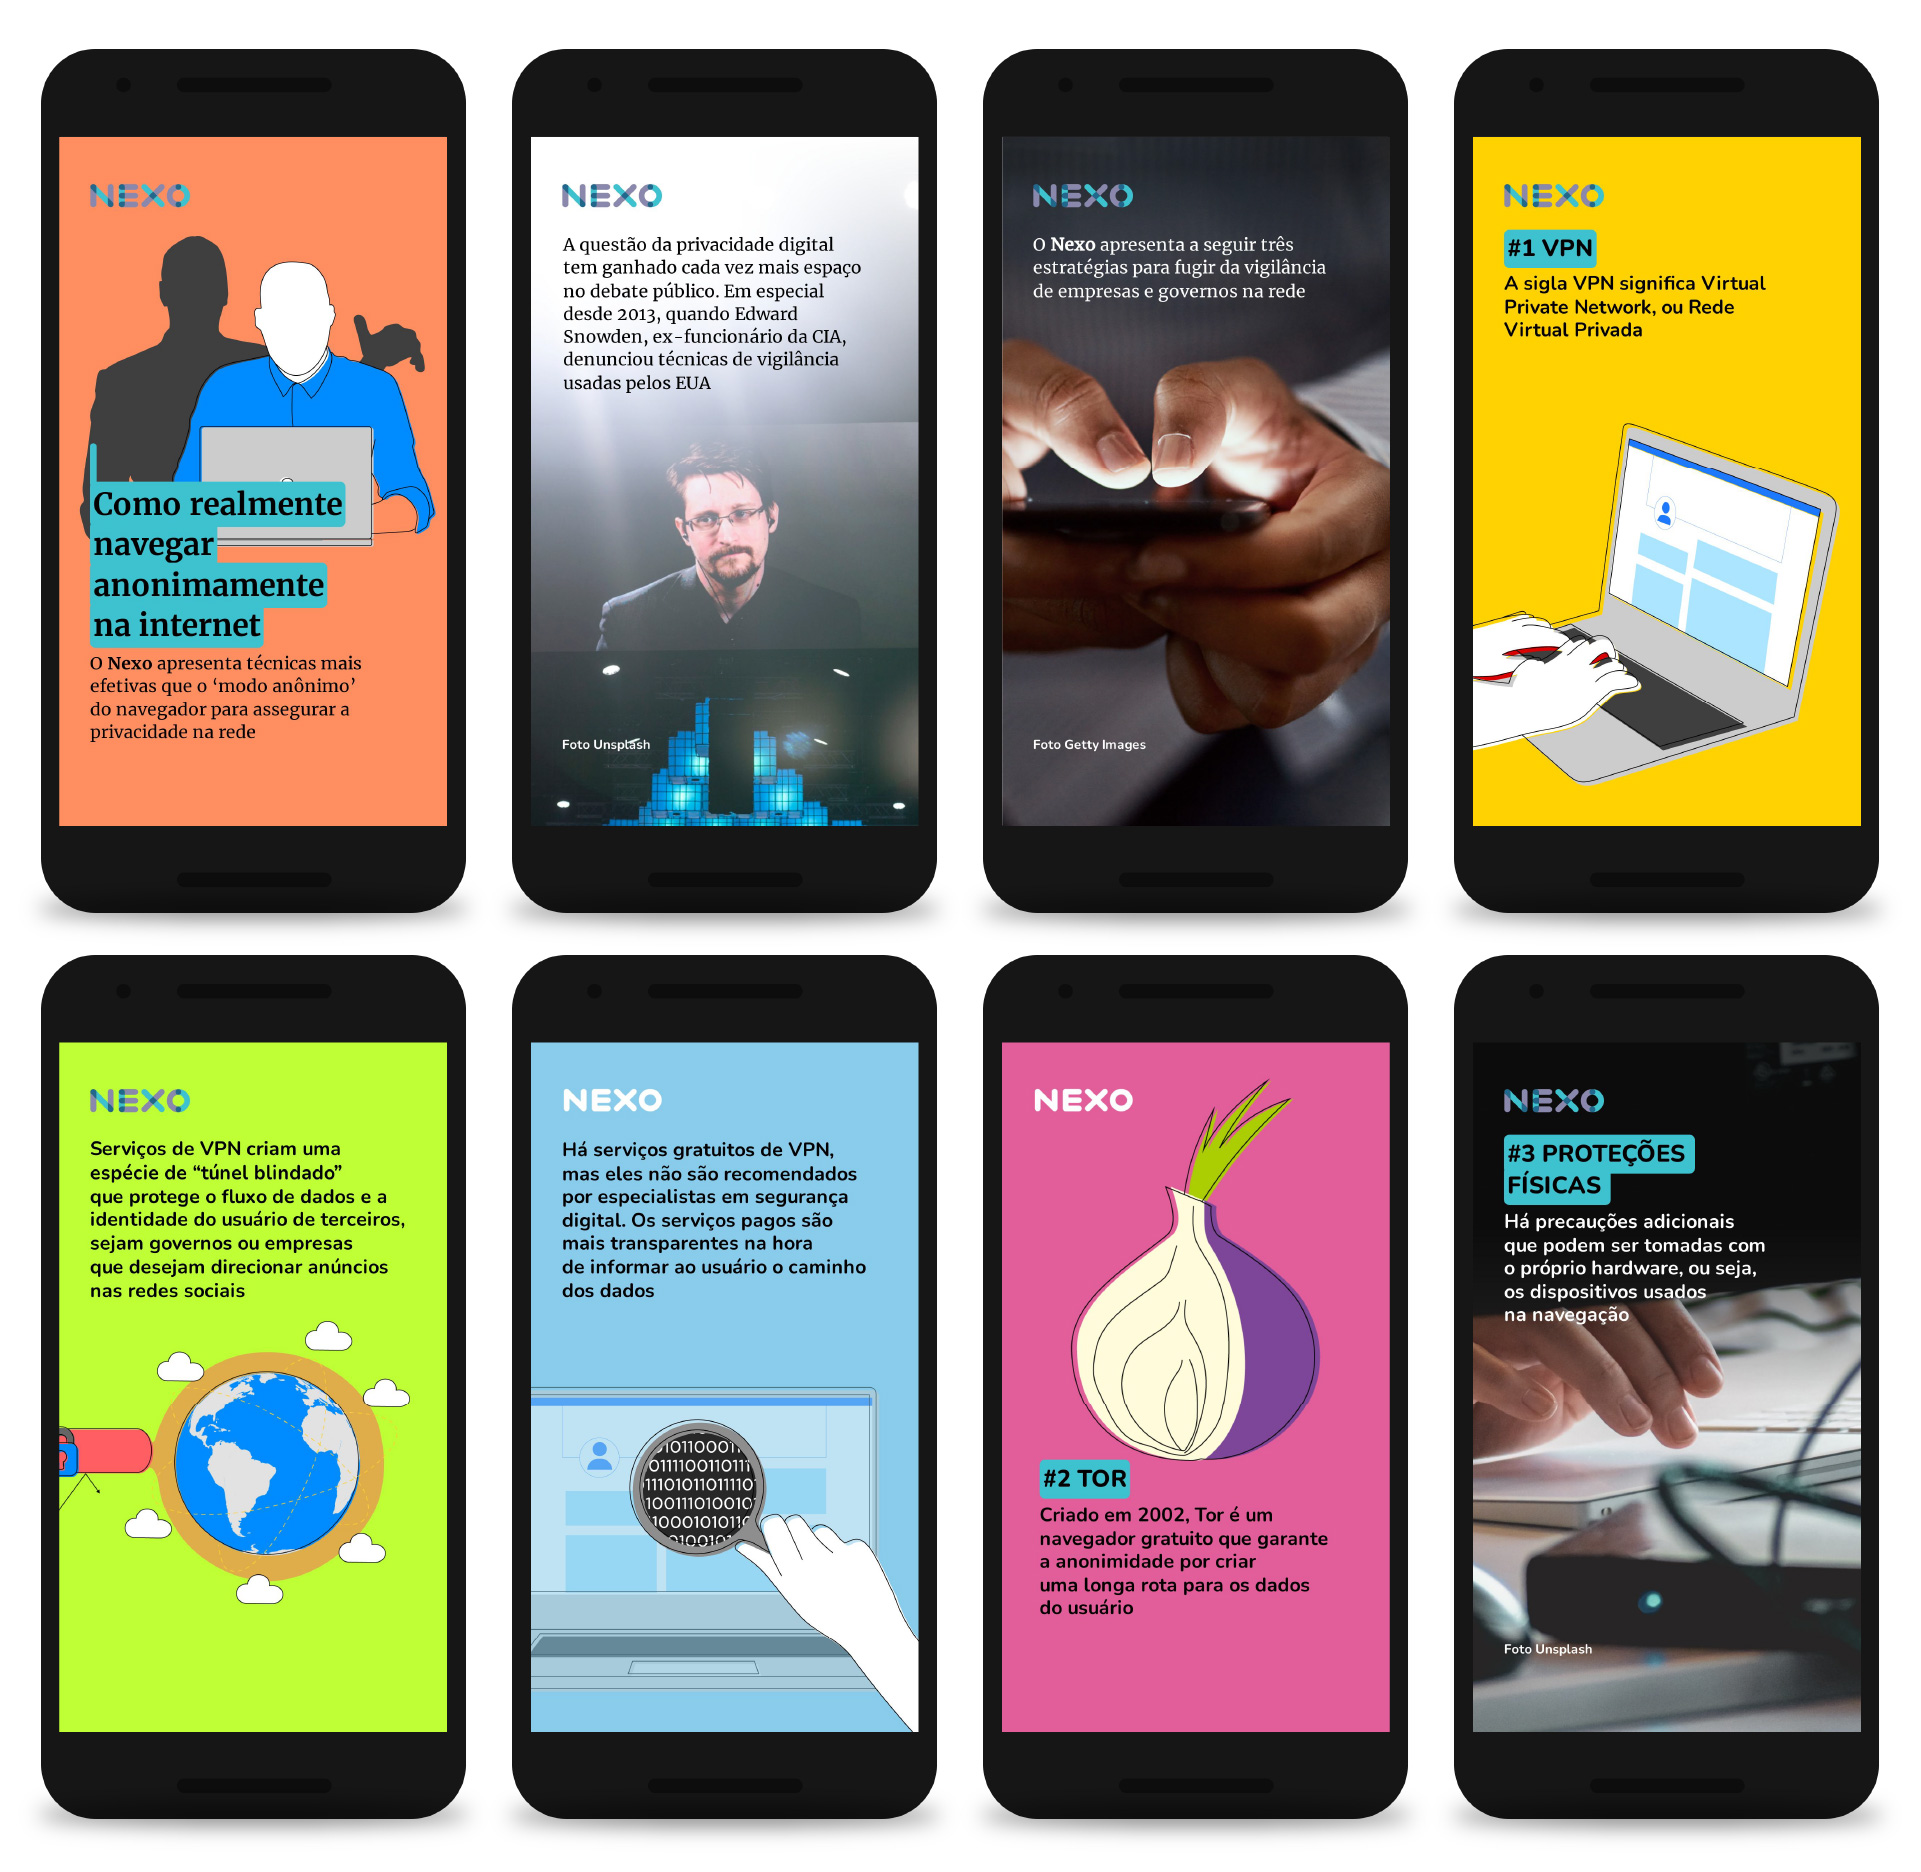
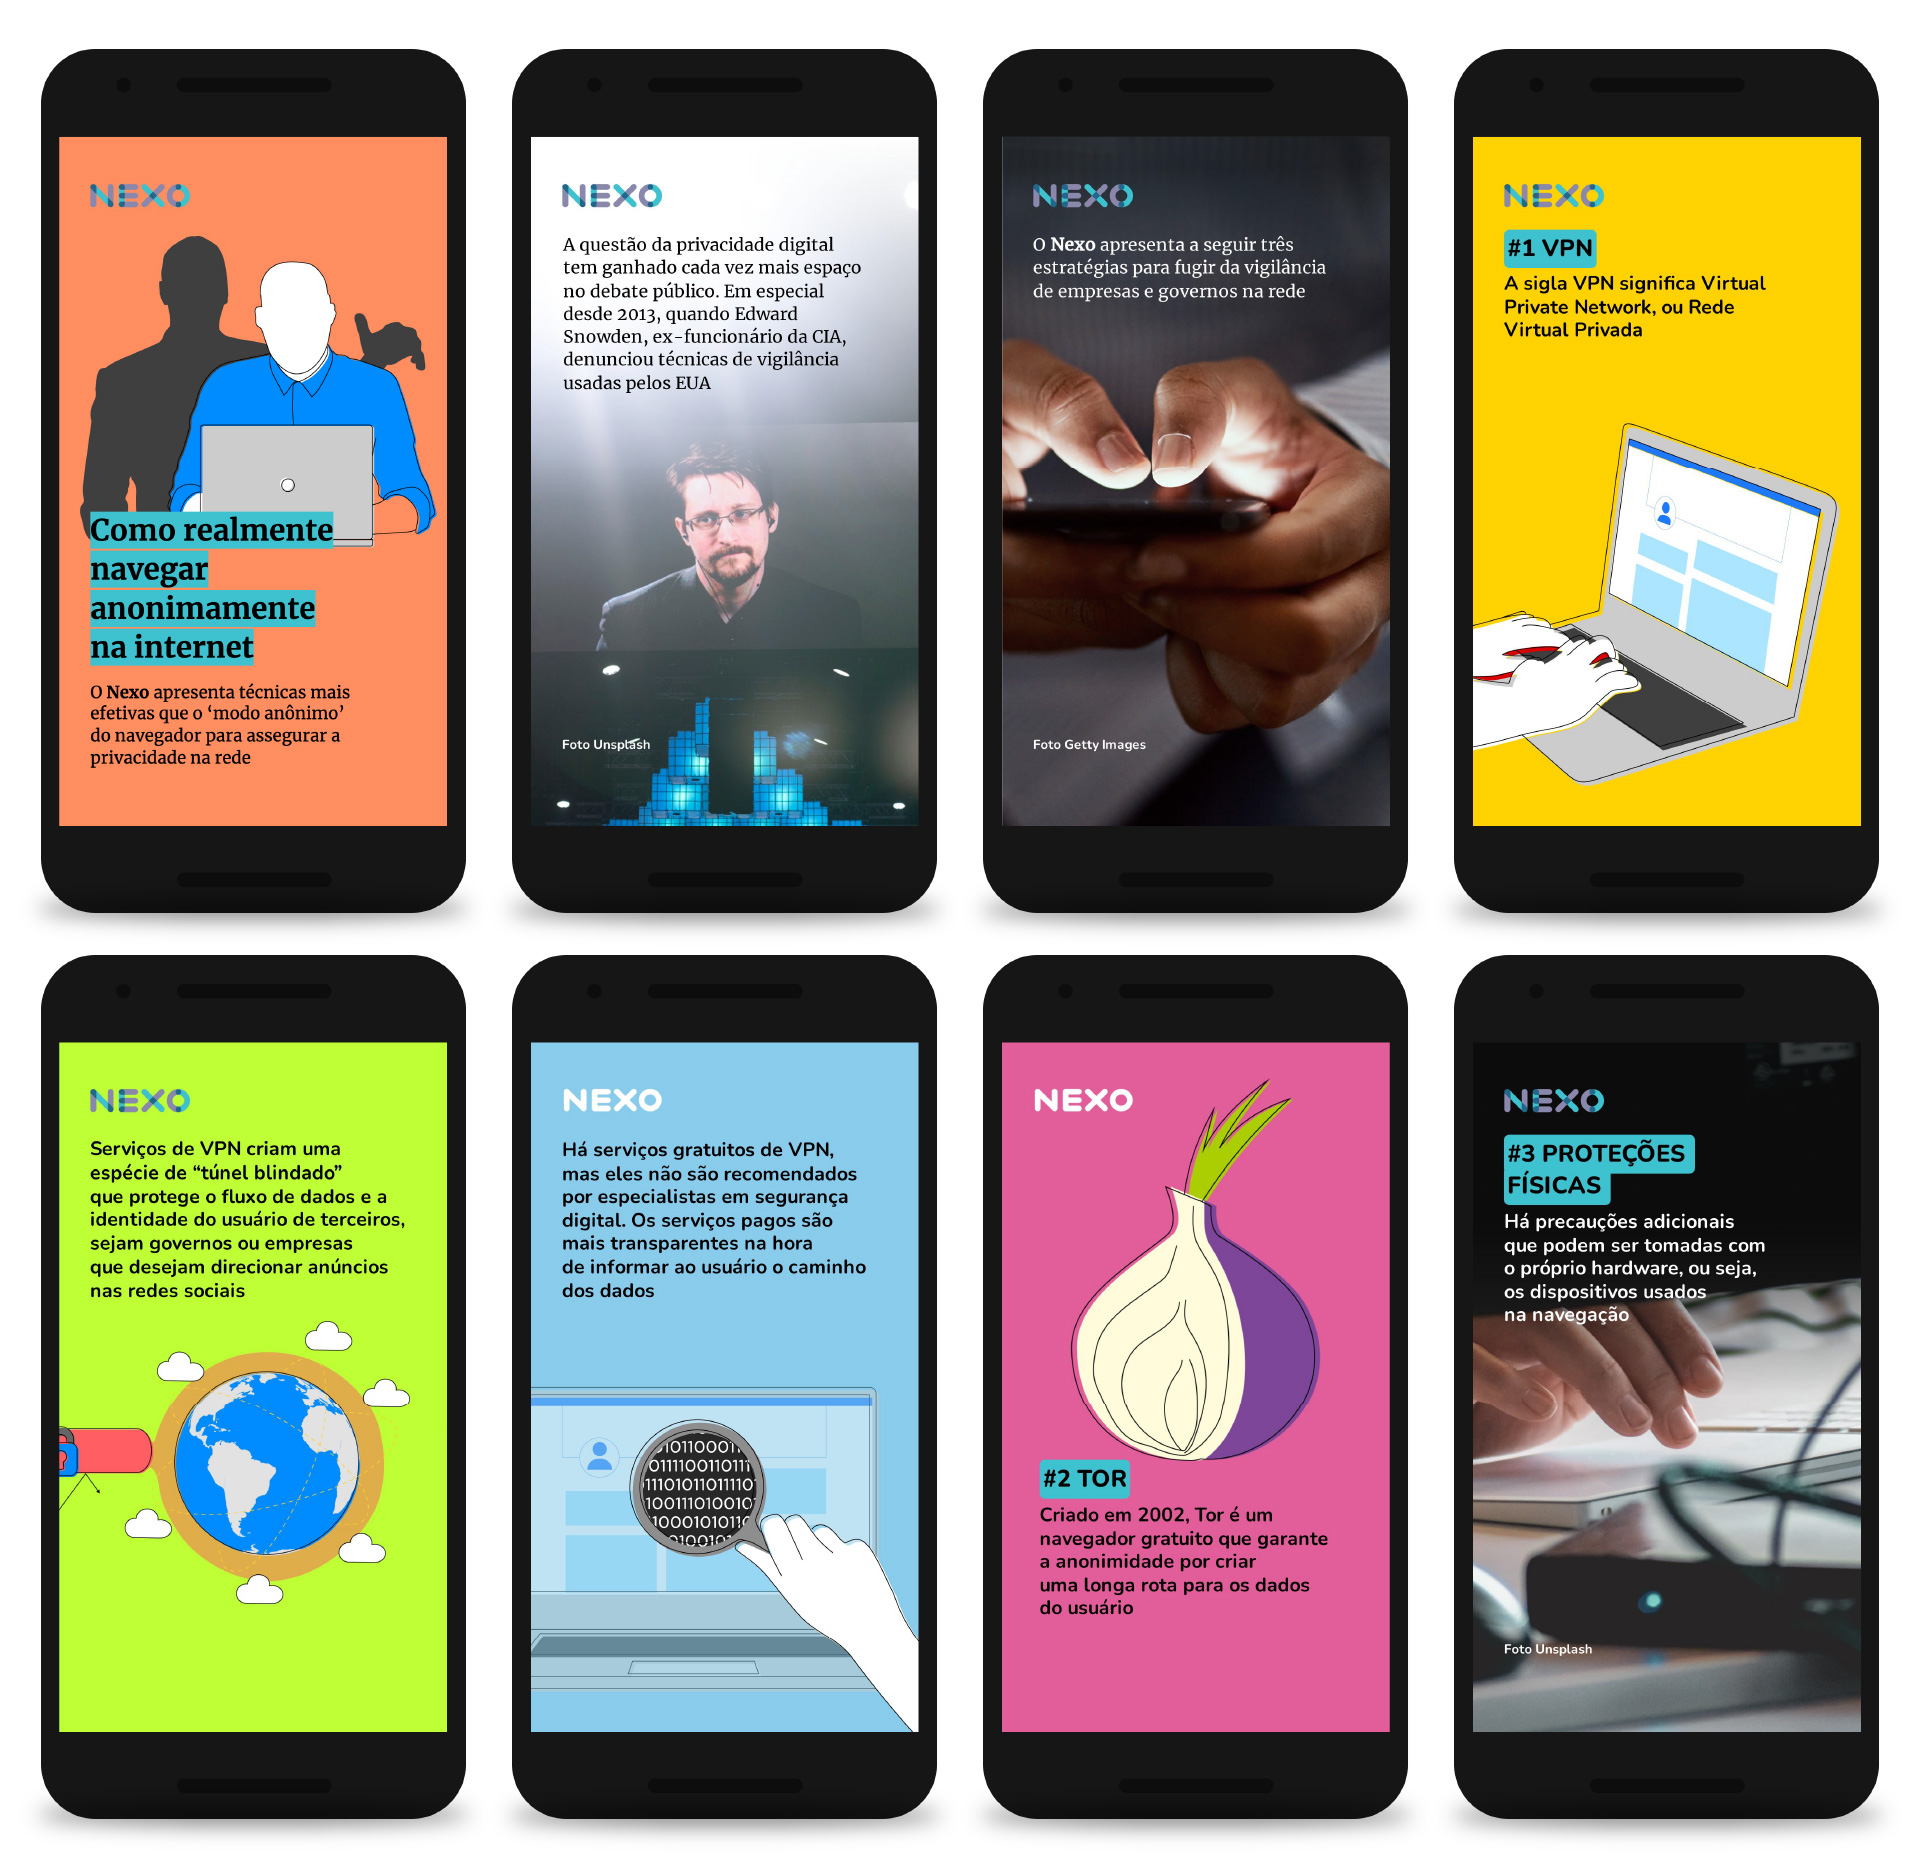
a

Changed region(s): [[0.0312, 0.1859, 0.2186, 0.4338]]

diff --git a/webstories.html b/webstories.html
@@ -25,16 +25,32 @@
 		</div>
 		<h2 class="titulo">webstories</h2>
 		<p class="data">nexo jornal — 2021</p>
-		<p>Lorem ipsum dolor sit amet, consectetur adipiscing elit. Nullam ipsum tortor, pellentesque vel mi et, tincidunt iaculis orci. In et lectus et ante dapibus tempor at quis mi. Nam consectetur luctus nisl nec placerat. Integer tincidunt dolor sit amet lectus aliquam, at gravida arcu efficitur. Vivamus feugiat risus sem, sed scelerisque tellus pharetra sit amet. Aliquam erat volutpat. Fusce in faucibus eros, in porttitor augue. Donec dignissim lobortis massa et malesuada. Suspendisse venenatis metus sit amet diam facilisis, sed porttitor mauris suscipit. Nulla facilisi.</p>
-		<p>Phasellus sagittis lorem quis egestas sagittis. Nullam sit amet urna sed enim ullamcorper luctus. Etiam id mattis mauris. Fusce porttitor est ligula, sed vulputate justo convallis vel. In consectetur purus vitae feugiat pharetra. Ut velit tellus, aliquam vel odio id, sodales consectetur justo. Vestibulum aliquam dui in volutpat laoreet. Lorem ipsum dolor sit amet, consectetur adipiscing elit. Nulla gravida, est non malesuada suscipit, est mi rutrum nisi, et ultricies diam leo at velit. Nam neque odio, tincidunt eu feugiat sed, fermentum ut nisi. Morbi vitae arcu velit.</p>
+		<p>O webstory é um novo formato do Google para conteúdos editoriais otimizado para celulares. Ele permite uma navegação mais confortável e uma experiência interativa e imersiva. Os conteúdos em webstory tem maior apelo visual e contam uma diversidade de recursos, como texto, imagens, vídeos, animações e componentes interativos.</p>
+        <p>Fui responsável por desenvolver a linguagem visual dos webstories do Nexo Jornal, adaptando ao novo formato diferentes tipos de conteúdo já publicados no jornal.</p>
 		<div class="conteudo-foto">
 			<img src="assets/webstories/webstories-2.jpg">
-			<p class="legenda-foto">Legenda da foto</p>
+			<p class="legenda-foto">Webstory do serviço "Uma introdução ao mundo dos chás"</p>
 		</div>
-		<p>Aliquam turpis est, condimentum sed nisi ut, egestas dignissim urna. Nunc dapibus sapien at tincidunt varius. Curabitur faucibus est nec felis gravida, et aliquam augue gravida. Etiam interdum nibh non nibh posuere congue. Mauris imperdiet, velit at rhoncus porta, ligula est interdum nunc, at porttitor massa nisi eget nisi. Ut aliquet, libero sit amet finibus elementum, ante enim euismod erat, eget condimentum odio nulla placerat tellus. Duis et mattis quam. Etiam vel justo non libero interdum suscipit. Fusce non tortor ac nisi pretium aliquet et ac dolor. Morbi ut tincidunt ligula.</p>
-		<h3>Renovação</h3>
-		<p>Nunc ut dolor malesuada, eleifend nunc ut, finibus nulla. Vivamus ornare, orci eget auctor mattis, elit velit elementum turpis, sed finibus lorem ex sit amet mi. Aliquam erat volutpat. Donec eget hendrerit lorem. Morbi ornare varius dignissim. In aliquet ultrices diam, sit amet blandit ipsum condimentum dignissim. Donec eleifend, massa eu posuere efficitur, arcu velit congue sem, vehicula efficitur urna nunc a purus. Pellentesque cursus varius eros quis sodales. Duis ex odio, commodo eu urna sit amet, consequat volutpat metus. Maecenas aliquet aliquam iaculis. Suspendisse in lorem tincidunt, ultrices nulla ac, consectetur risus. Quisque mauris sem, pellentesque ac est ut, convallis mattis leo.</p>
-		<p>Praesent maximus vitae nibh id auctor. Etiam ullamcorper quis ex at scelerisque. Pellentesque posuere velit bibendum odio dictum, in sodales lacus aliquam. Vestibulum ultrices ut dolor in gravida. Vestibulum fermentum enim nec elit pretium, finibus eleifend ipsum molestie. Vivamus feugiat fringilla vulputate. Curabitur id magna orci. Sed ut odio risus. Integer turpis augue, fermentum eget ornare id, luctus eget lorem. Donec dolor metus, euismod id consectetur nec, fringilla non quam. Quisque id finibus dolor. Pellentesque vestibulum placerat dui, nec hendrerit urna tristique at.</p>
+        <div class="conteudo-foto">
+			<img src="assets/webstories/webstories-6.jpg">
+			<p class="legenda-foto">Webstory do Expresso "Como nascem e morrem as estrelas"/p>
+		</div>
+        <div class="conteudo-foto">
+			<img src="assets/webstories/webstories-7.jpg">
+			<p class="legenda-foto">Webstory do serviço "Como discutir política sem baixar o nível"</p>
+		</div>
+        <div class="conteudo-foto">
+			<img src="assets/webstories/webstories-3.jpg">
+			<p class="legenda-foto">Webstory da coluna Léxico sobre a palavra "Hater"</p>
+		</div>
+        <div class="conteudo-foto">
+			<img src="assets/webstories/webstories-4.jpg">
+			<p class="legenda-foto">Webstory da seção Favoritos com livros escolhidos pela youtuber Nath Finanças</p>
+		</div>
+        <div class="conteudo-foto">
+			<img src="assets/webstories/webstories-5.jpg">
+			<p class="legenda-foto">Webstory do serviço "Como realmente navegar anonimamente na internet"</p>
+		</div>
 	</div>
 </main>
 <footer>
